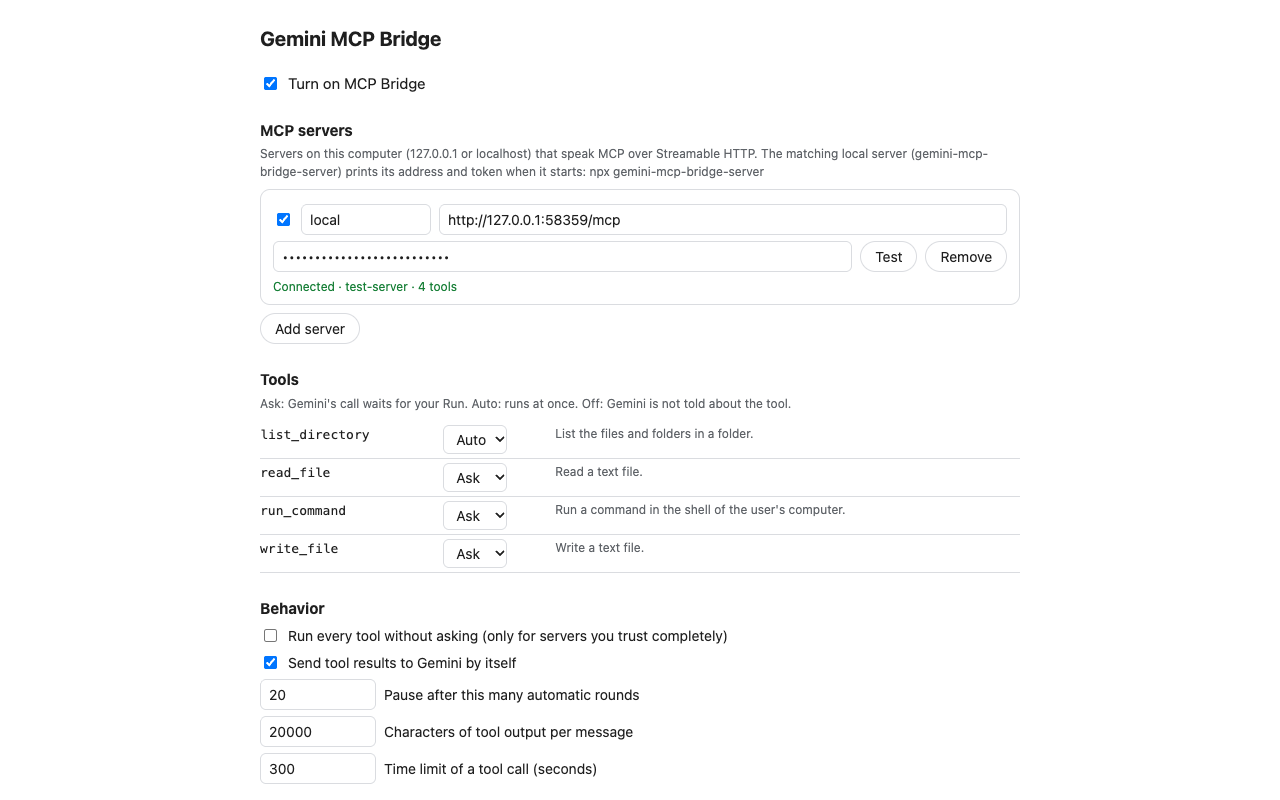
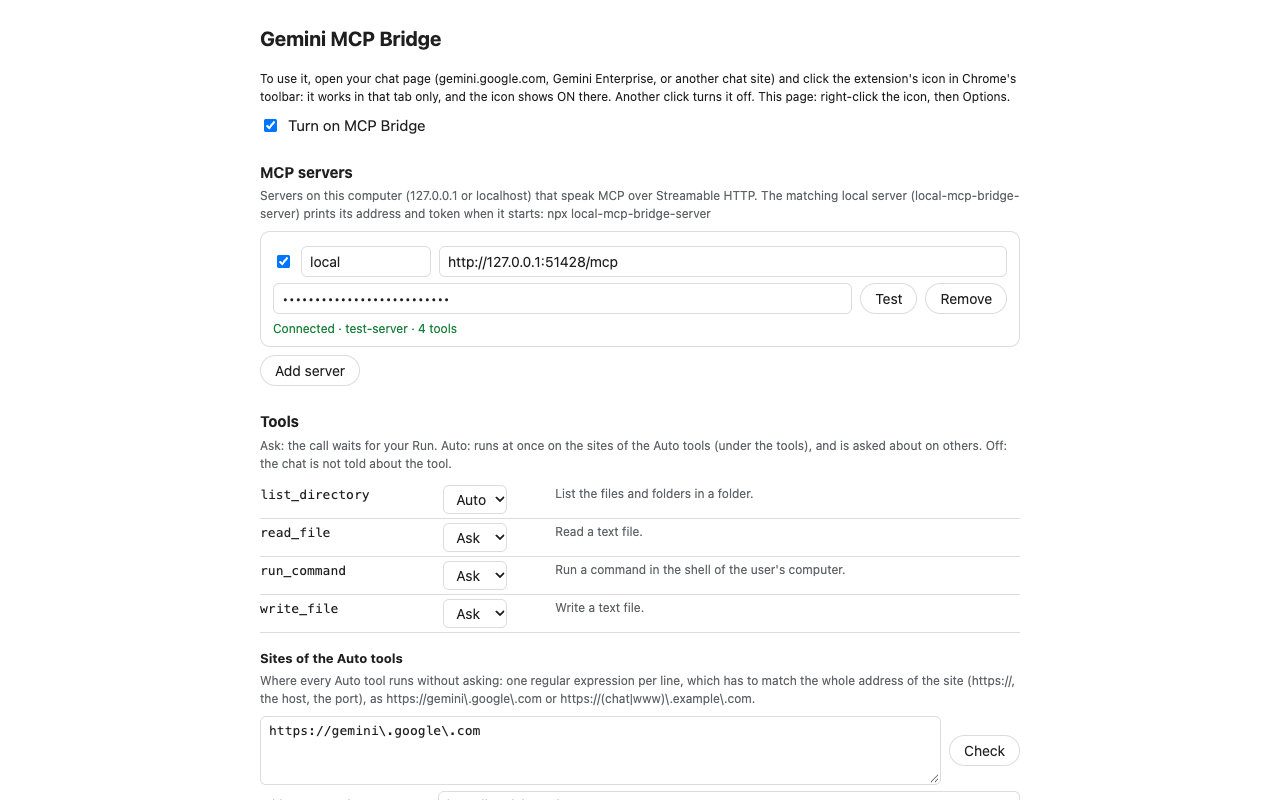
Release 0.6.2: the matching server is local-mcp-bridge-server; the performance log goes to it by either name
The options, the messages, the README, the privacy policy and the store listing give the server's new name and
command (until its 0.6.0 it was gemini-mcp-bridge-server). The performance log goes to a server of either name.
The options picture of the store shows the page as it is now.

Claude-Session: https://claude.ai/code/session_01Ff84hSXfNqtFTkKkuxbYLY

Changed region(s): [[0.1875, 0.0938, 0.7812, 0.9688], [0.75, 0.9062, 0.7812, 0.9688]]

diff --git a/src/shared/i18n.ts b/src/shared/i18n.ts
@@ -10,7 +10,7 @@ const en = {
   useInChat: "Use tools in this chat",
   refresh: "Refresh",
   settings: "Settings",
-  noServer: "No MCP server is connected. Start the local server with: npx gemini-mcp-bridge-server",
+  noServer: "No MCP server is connected. Start the local server with: npx local-mcp-bridge-server",
   resultsWaiting: "Tool results are ready. Your draft stays in the input box.",
   sendResults: "Send results",
   resultsInBox: "Tool results are in the input box: press send.",
@@ -143,7 +143,7 @@ const en = {
   optEnabled: "Turn on MCP Bridge",
   optServers: "MCP servers",
   optServersHelp:
-    "Servers on this computer (127.0.0.1 or localhost) that speak MCP over Streamable HTTP. The matching local server (gemini-mcp-bridge-server) prints its address and token when it starts: npx gemini-mcp-bridge-server",
+    "Servers on this computer (127.0.0.1 or localhost) that speak MCP over Streamable HTTP. The matching local server (local-mcp-bridge-server) prints its address and token when it starts: npx local-mcp-bridge-server",
   optName: "Name",
   optUrl: "URL",
   optToken: "Token",
@@ -195,10 +195,10 @@ const en = {
   optPerfClear: "Clear",
   optPerfEmpty: "Nothing written yet: use a tab where the extension is on.",
   optPerfKept: "The last lines stay here until the browser closes.",
-  optPerfFile: "gemini-mcp-bridge-server writes them to {file} too.",
-  optPerfOld: "gemini-mcp-bridge-server does not take them: update it (npx gemini-mcp-bridge-server@latest). They are kept here only.",
-  optPerfNone: "No gemini-mcp-bridge-server is connected: the lines are kept here only.",
-  optPerfError: "gemini-mcp-bridge-server did not take them ({error}): they are kept here only.",
+  optPerfFile: "local-mcp-bridge-server writes them to {file} too.",
+  optPerfOld: "local-mcp-bridge-server does not take them: update it (npx local-mcp-bridge-server@latest). They are kept here only.",
+  optPerfNone: "No local-mcp-bridge-server is connected: the lines are kept here only.",
+  optPerfError: "local-mcp-bridge-server did not take them ({error}): they are kept here only.",
   optLearned: "Learned pages",
   optLearnedHelp:
     "Chat pages other than Gemini that were learned (Learn this page, in the panel of the status button). Delete one and the extension guesses where things are there again, till it is learned again.",
@@ -222,7 +222,7 @@ const ko: Record<Key, string> = {
   useInChat: "이 대화에서 도구 사용",
   refresh: "새로고침",
   settings: "설정",
-  noServer: "연결된 MCP 서버가 없습니다. 로컬 서버를 실행하세요: npx gemini-mcp-bridge-server",
+  noServer: "연결된 MCP 서버가 없습니다. 로컬 서버를 실행하세요: npx local-mcp-bridge-server",
   resultsWaiting: "도구 결과가 준비됐습니다. 쓰던 글은 입력창에 그대로 있습니다.",
   sendResults: "결과 보내기",
   resultsInBox: "도구 결과를 입력창에 넣었습니다. 보내기를 누르세요.",
@@ -353,7 +353,7 @@ const ko: Record<Key, string> = {
   optEnabled: "MCP Bridge 켜기",
   optServers: "MCP 서버",
   optServersHelp:
-    "이 컴퓨터(127.0.0.1 또는 localhost)에서 Streamable HTTP로 MCP를 제공하는 서버. 짝이 되는 로컬 서버(gemini-mcp-bridge-server)는 시작할 때 주소와 토큰을 보여 줍니다: npx gemini-mcp-bridge-server",
+    "이 컴퓨터(127.0.0.1 또는 localhost)에서 Streamable HTTP로 MCP를 제공하는 서버. 짝이 되는 로컬 서버(local-mcp-bridge-server)는 시작할 때 주소와 토큰을 보여 줍니다: npx local-mcp-bridge-server",
   optName: "이름",
   optUrl: "URL",
   optToken: "토큰",
@@ -404,10 +404,10 @@ const ko: Record<Key, string> = {
   optPerfClear: "지우기",
   optPerfEmpty: "아직 적힌 것이 없습니다: 확장을 켠 탭에서 페이지를 쓰세요.",
   optPerfKept: "마지막 줄들은 브라우저를 닫을 때까지 여기에 남습니다.",
-  optPerfFile: "gemini-mcp-bridge-server도 {file}에 적습니다.",
-  optPerfOld: "gemini-mcp-bridge-server가 받지 않습니다: 서버를 새 버전으로 바꾸세요 (npx gemini-mcp-bridge-server@latest). 여기에만 남습니다.",
-  optPerfNone: "연결된 gemini-mcp-bridge-server가 없습니다: 여기에만 남습니다.",
-  optPerfError: "gemini-mcp-bridge-server가 받지 못했습니다 ({error}): 여기에만 남습니다.",
+  optPerfFile: "local-mcp-bridge-server도 {file}에 적습니다.",
+  optPerfOld: "local-mcp-bridge-server가 받지 않습니다: 서버를 새 버전으로 바꾸세요 (npx local-mcp-bridge-server@latest). 여기에만 남습니다.",
+  optPerfNone: "연결된 local-mcp-bridge-server가 없습니다: 여기에만 남습니다.",
+  optPerfError: "local-mcp-bridge-server가 받지 못했습니다 ({error}): 여기에만 남습니다.",
   optLearned: "학습한 페이지",
   optLearnedHelp: "학습한 채팅 페이지 (Gemini 밖, 상태 버튼 패널의 「학습 시작」). 지우면 그 페이지에서는 다시 학습할 때까지 확장이 추측으로 동작합니다.",
   optNoLearned: "학습한 페이지가 없습니다.",

diff --git a/e2e/perf.test.ts b/e2e/perf.test.ts
@@ -1,6 +1,7 @@
 // The performance log (an option): a slow click and a long frame are written down with the extension's share,
-// with a summary of the extension's time; the lines show on the options page, go to gemini-mcp-bridge-server and to
-// no other server, carry no text of the page, and nothing is measured or kept while the option is off.
+// with a summary of the extension's time; the lines show on the options page, go to local-mcp-bridge-server (by
+// either of its names) and to no other server, carry no text of the page, and nothing is measured or kept while
+// the option is off.
 
 import assert from "node:assert/strict";
 import { after, describe, it } from "node:test";
@@ -51,7 +52,7 @@ async function waitLine(h: Harness, re: RegExp, timeout = 15_000): Promise<strin
 
 describe("performance log", () => {
   it("writes down a slow click, a long frame and the extension's time; shows them; the server gets them", async () => {
-    const { h, page } = await setUp("gemini-mcp-bridge-server");
+    const { h, page } = await setUp("local-mcp-bridge-server");
     await page.click("#b");
     const click = await waitLine(h, /slow click/);
     assert.match(click, /^\d\d:\d\d:\d\d slow click (\d+) ms \(wait \d+, handlers (\d+), paint \d+\) on button\.slow · extension \d+ ms/);
@@ -68,7 +69,7 @@ describe("performance log", () => {
     await options.goto(new URL("options.html", h.worker.url()).href);
     const box = options.locator("textarea.perf");
     await options.waitForFunction(() => document.querySelector<HTMLTextAreaElement>("textarea.perf")?.value.includes("slow click"));
-    await options.getByText("gemini-mcp-bridge-server writes them to /home/test/.config/gemini-mcp-bridge-server/perf.log too.").waitFor();
+    await options.getByText("local-mcp-bridge-server writes them to /home/test/.config/local-mcp-bridge-server/perf.log too.").waitFor();
     await options.getByRole("button", { name: "Clear" }).click();
     await options.waitForFunction(() => document.querySelector<HTMLTextAreaElement>("textarea.perf")?.value === "");
     assert.equal(await box.inputValue(), "");
@@ -85,7 +86,19 @@ describe("performance log", () => {
     await page.close();
   });
 
-  it("keeps the lines in the browser only when the server is not gemini-mcp-bridge-server", async () => {
+  it("sends them to the server of the former name too, gemini-mcp-bridge-server (until its 0.6.0)", async () => {
+    const { h, page } = await setUp("gemini-mcp-bridge-server");
+    await page.click("#b");
+    await waitLine(h, /slow click/);
+    const until = Date.now() + 15_000;
+    while (!h.perf.some((l) => l.includes("slow click"))) {
+      if (Date.now() > until) throw new Error(`the server got no slow click: ${h.perf.join("\n")}`);
+      await new Promise((r) => setTimeout(r, 200));
+    }
+    await page.close();
+  });
+
+  it("keeps the lines in the browser only when the server is another one", async () => {
     const { h, page } = await setUp();
     await page.click("#b");
     await waitLine(h, /slow click/);

diff --git a/e2e/test-server.ts b/e2e/test-server.ts
@@ -1,4 +1,4 @@
-// An MCP server for the tests, built with the official SDK: the four tools of gemini-mcp-bridge-server, in
+// An MCP server for the tests, built with the official SDK: the four tools of local-mcp-bridge-server, in
 // simple form, over Streamable HTTP. Stateless with JSON answers, or with sessions and SSE answers.
 
 import { execFile } from "node:child_process";
@@ -72,7 +72,7 @@ export interface TestServer {
   calls: string[];
   /** JSON-RPC methods received (requests and notifications), and "DELETE" for a session ended. */
   methods: string[];
-  /** Lines of the performance log posted to /perf (answered as gemini-mcp-bridge-server does). */
+  /** Lines of the performance log posted to /perf (answered as local-mcp-bridge-server does). */
   perf: string[];
   http: HttpServer;
   /** Forgets all sessions, as a restarted server would (sessions mode only). */
@@ -81,7 +81,7 @@ export interface TestServer {
 }
 
 /** `name`: the server's name in its answer to initialize (the extension sends the performance log only to
- * gemini-mcp-bridge-server). */
+ * local-mcp-bridge-server, by either of its names). */
 export async function startTestServer(opts: { token?: string; sessions?: boolean; name?: string } = {}): Promise<TestServer> {
   const sessions = new Map<string, StreamableHTTPServerTransport>();
   const calls: string[] = [];
@@ -95,7 +95,7 @@ export async function startTestServer(opts: { token?: string; sessions?: boolean
       for await (const c of req) chunks.push(c as Buffer);
       if (req.url === "/perf") {
         perf.push(...Buffer.concat(chunks).toString("utf8").split("\n").filter(Boolean));
-        return void res.writeHead(200).end("/home/test/.config/gemini-mcp-bridge-server/perf.log");
+        return void res.writeHead(200).end("/home/test/.config/local-mcp-bridge-server/perf.log");
       }
       const body: unknown = chunks.length ? JSON.parse(Buffer.concat(chunks).toString("utf8")) : undefined;
       if (req.method === "DELETE") methods.push("DELETE");

diff --git a/src/background/index.ts b/src/background/index.ts
@@ -167,9 +167,10 @@ async function callTool(name: string, args: Record<string, unknown>, approved: b
 
 // ---------------------------------------------------------------------------------------------------------
 // The performance log (content/perf.ts): its last lines stay in chrome.storage.session for the options page, and
-// gemini-mcp-bridge-server gets them for its perf.log. Other MCP servers get nothing of it.
+// local-mcp-bridge-server gets them for its perf.log. Other MCP servers get nothing of it.
 
-const BRIDGE_SERVER = "gemini-mcp-bridge-server";
+/** The matching server, by the name it gives (until its 0.6.0: gemini-mcp-bridge-server). */
+const BRIDGE_SERVERS = new Set(["local-mcp-bridge-server", "gemini-mcp-bridge-server"]);
 const PERF_MAX_CHARS = 100_000;
 const PERF_MAX_LINES = 50;
 const PERF_MAX_LINE = 2000;
@@ -239,7 +240,7 @@ async function sendPerf(settings: Settings, lines: string[]): Promise<PerfServer
   if (!conns.size) await sync(settings, false);
   let status: PerfServer = { ok: false, why: "none" };
   for (const c of live()) {
-    if (c.client.info?.serverInfo?.name !== BRIDGE_SERVER) continue;
+    if (!BRIDGE_SERVERS.has(c.client.info?.serverInfo?.name ?? "")) continue;
     const got = await postPerf(c, lines);
     if (!status.ok) status = got;
   }

diff --git a/src/content/perf.ts b/src/content/perf.ts
@@ -5,7 +5,7 @@
 //    was the extension's own work.
 // Lines of names and numbers, the site without its path, the tag and classes of the element clicked, the hosts
 // and file names of the page's slow scripts: no text of the page. The service worker keeps the last lines for the options page and passes them to
-// gemini-mcp-bridge-server, which appends them to its perf.log.
+// local-mcp-bridge-server, which appends them to its perf.log.
 //
 // Off, it costs nothing but a check of one variable per measured function.
 

diff --git a/README.md b/README.md
@@ -6,7 +6,7 @@ It works only in the tabs where you turn it on: click its icon in Chrome's toolb
 
 This is the Chrome extension. It works with a local MCP server, because an extension cannot touch your computer by itself:
 
-- **[gemini-mcp-bridge-server](https://github.com/somebodil/gemini-mcp-bridge-server)**, the matching server: shell and file tools, plus any MCP servers you list. Start it with `npx gemini-mcp-bridge-server`.
+- **[local-mcp-bridge-server](https://github.com/somebodil/local-mcp-bridge-server)**, the matching server: shell and file tools, plus any MCP servers you list. Start it with `npx local-mcp-bridge-server`. Until its 0.6.0 it was called gemini-mcp-bridge-server: [moving over](https://github.com/somebodil/local-mcp-bridge-server#from-gemini-mcp-bridge-server) keeps its token.
 - **Any other MCP server** on `127.0.0.1` or `localhost` that speaks Streamable HTTP.
 
 ## How it works
@@ -45,16 +45,16 @@ No `node`, or a version under 20: install the LTS version from [nodejs.org](http
 Then start the server:
 
 ```bash
-npx gemini-mcp-bridge-server
+npx local-mcp-bridge-server
 ```
 
 The first start makes a config file with a random token and prints what the extension needs:
 
 ```
-gemini-mcp-bridge-server 0.6.0
+local-mcp-bridge-server 0.7.0
   URL:    http://127.0.0.1:7341/mcp
   Token:  3q2-...
-  Config: /home/you/.config/gemini-mcp-bridge-server/config.json (new)
+  Config: /home/you/.config/local-mcp-bridge-server/config.json (new)
   Tools:  run_command, read_file, list_directory
 ```
 
@@ -63,11 +63,11 @@ Leave this window open while you use Gemini: the server runs as long as the wind
 To have the server start by itself whenever you log in, install it once and register it (macOS, Linux and Windows, no administrator rights):
 
 ```bash
-npm install -g gemini-mcp-bridge-server
-gemini-mcp-bridge-server install-service
+npm install -g local-mcp-bridge-server
+local-mcp-bridge-server install-service
 ```
 
-More about the server: [gemini-mcp-bridge-server](https://github.com/somebodil/gemini-mcp-bridge-server#readme).
+More about the server: [local-mcp-bridge-server](https://github.com/somebodil/local-mcp-bridge-server#readme).
 
 ### 2. Add the extension to Chrome
 
@@ -84,8 +84,8 @@ More about the server: [gemini-mcp-bridge-server](https://github.com/somebodil/g
 On the options page (later: right-click the extension's icon, then **Options**; or **Settings** in the corner button):
 
 1. Leave the URL as it is (`http://127.0.0.1:7341/mcp`), unless you started the server with another port.
-2. Paste the token the server printed. Lost it? Run `gemini-mcp-bridge-server token` (or `npx gemini-mcp-bridge-server token`).
-3. Press **Test**. It should say *Connected · gemini-mcp-bridge-server · 4 tools*, and list the tools below.
+2. Paste the token the server printed. Lost it? Run `local-mcp-bridge-server token` (or `npx local-mcp-bridge-server token`).
+3. Press **Test**. It should say *Connected · local-mcp-bridge-server · 3 tools* (4 on Windows), and list the tools below.
 
 ![The options page, connected](store/images/screenshot-3-options.png)
 
@@ -137,14 +137,14 @@ Your settings stay. The server updates the same way it was installed: `npx` take
 ## Uninstall
 
 - The extension: **Remove** on its card in `chrome://extensions`, then delete its folder.
-- The server: `gemini-mcp-bridge-server uninstall-service` if you registered it, `npm uninstall -g gemini-mcp-bridge-server` if you installed it, and delete its config file (the path is in its first lines of output) to forget the token.
+- The server: `local-mcp-bridge-server uninstall-service` if you registered it, `npm uninstall -g local-mcp-bridge-server` if you installed it, and delete its config file (the path is in its first lines of output) to forget the token.
 
 ## Troubleshooting
 
 | What you see | What to do |
 |---|---|
 | *Cannot reach http://127.0.0.1:7341/mcp ... Is the local server running?* | Start the server (step 1), then press **Test** or **Refresh**. |
-| *HTTP 401 ... Check the token* | The token in the options does not match the server's: paste it again (`gemini-mcp-bridge-server token`). |
+| *HTTP 401 ... Check the token* | The token in the options does not match the server's: paste it again (`local-mcp-bridge-server token`). |
 | *Only 127.0.0.1 and localhost addresses can be reached* | The extension talks only to servers on your own computer. |
 | No corner button on the page | The extension is off in this tab: click its icon (it shows **ON** when on). After an update of the extension, every tab starts off. |
 | The icon does nothing on a page | Chrome does not let extensions into some pages (`chrome://` pages, the Chrome Web Store). |
@@ -152,7 +152,7 @@ Your settings stay. The server updates the same way it was installed: `npx` take
 | *No reply found yet* on a learned page | The page changed since it was learned: press **Learn again** on that line. |
 | Gemini says it cannot access your computer | Start a new chat: the instructions go with the first message of a chat. Check that the corner button is there and shows tools, and not *Off*. |
 | Gemini writes a call, but nothing happens | Look at the card under it: it may be waiting for **Run**. A call in a chat opened from the history never runs: only replies written while the page is open do. |
-| A call ends in an error, a reply waits forever, or a command does something other than in your terminal | Open DevTools (F12) on the chat page: every problem the extension runs into is an error in the console that starts with `[MCP Bridge]`. A failed call comes with the error and the arguments sent, a call it could not read with what Gemini wrote; a reply it stopped waiting for, text or results the page did not take, and a server it cannot reach are there too. The service worker's console (`chrome://extensions`, MCP Bridge, *service worker*) shows the problems with the servers, and gemini-mcp-bridge-server prints each request and its reply. The card shows the arguments as the tool gets them: a command copied from it runs the same in a terminal. |
+| A call ends in an error, a reply waits forever, or a command does something other than in your terminal | Open DevTools (F12) on the chat page: every problem the extension runs into is an error in the console that starts with `[MCP Bridge]`. A failed call comes with the error and the arguments sent, a call it could not read with what Gemini wrote; a reply it stopped waiting for, text or results the page did not take, and a server it cannot reach are there too. The service worker's console (`chrome://extensions`, MCP Bridge, *service worker*) shows the problems with the servers, and local-mcp-bridge-server prints each request and its reply. The card shows the arguments as the tool gets them: a command copied from it runs the same in a terminal. |
 | The extension disappeared after Chrome restarted | Its folder was moved or deleted: unzip it again and **Load unpacked** again. |
 | The page is slow with the extension on | Turn on the **Performance log** in the options, use the page as usual for a few minutes, and copy the lines into an issue. They say how long the slow clicks, keys and frames took and how much of each was the extension's own work. |
 
@@ -182,7 +182,7 @@ Read this before you allow a tool to run by itself.
     - each click or key that took 100 ms or more to show its effect (what Chrome's *Interaction to Next Paint* measures), each frame of 150 ms or more, and how much of that time was the extension's own work;
     - every minute, how much time the extension took and in which of its functions.
 
-  The lines carry names and numbers only (the site without its path, the tag and classes of the element clicked, the hosts and file names of the page's slow scripts), no text of the page. The last ones stay on the options page, with **Copy** and **Clear**, until the browser closes. When gemini-mcp-bridge-server is connected, it appends them to its `perf.log` too (`gemini-mcp-bridge-server perf-log` shows them).
+  The lines carry names and numbers only (the site without its path, the tag and classes of the element clicked, the hosts and file names of the page's slow scripts), no text of the page. The last ones stay on the options page, with **Copy** and **Clear**, until the browser closes. When local-mcp-bridge-server is connected, it appends them to its `perf.log` too (`local-mcp-bridge-server perf-log` shows them).
 
 ## Limits
 

diff --git a/store/listing.md b/store/listing.md
@@ -36,7 +36,7 @@ YOU STAY IN CONTROL
 • The extension reaches only 127.0.0.1 and localhost.
 
 WHAT YOU NEED
-The matching local server, gemini-mcp-bridge-server (free, open source, Node.js): run "npx gemini-mcp-bridge-server" and enter the address and token it prints in the extension's options. It offers shell and file tools and passes through any MCP servers you list (Playwright, databases, and more). Any other MCP server that speaks Streamable HTTP on localhost works too.
+The matching local server, local-mcp-bridge-server (free, open source, Node.js): run "npx local-mcp-bridge-server" and enter the address and token it prints in the extension's options. It offers shell and file tools and passes through any MCP servers you list (Playwright, databases, and more). Any other MCP server that speaks Streamable HTTP on localhost works too.
 
 PRIVACY
 The extension sends nothing to its developer or anyone else. Tool results become part of your Gemini conversation, which Google handles under its own terms.
@@ -67,7 +67,7 @@ Gemini MCP Bridge는 웹의 Gemini(gemini.google.com, Gemini Enterprise, 다른 
 • 확장은 127.0.0.1과 localhost에만 연결합니다.
 
 필요한 것
-짝이 되는 로컬 서버 gemini-mcp-bridge-server (무료, 오픈 소스, Node.js): "npx gemini-mcp-bridge-server"를 실행하고, 보여 주는 주소와 토큰을 확장 설정에 넣으세요. 셸과 파일 도구가 있고, 적어 둔 MCP 서버(Playwright, 데이터베이스 등)를 그대로 연결합니다. localhost에서 Streamable HTTP로 도는 다른 MCP 서버도 됩니다.
+짝이 되는 로컬 서버 local-mcp-bridge-server (무료, 오픈 소스, Node.js): "npx local-mcp-bridge-server"를 실행하고, 보여 주는 주소와 토큰을 확장 설정에 넣으세요. 셸과 파일 도구가 있고, 적어 둔 MCP 서버(Playwright, 데이터베이스 등)를 그대로 연결합니다. localhost에서 Streamable HTTP로 도는 다른 MCP 서버도 됩니다.
 
 개인정보
 확장은 개발자나 다른 누구에게도 아무것도 보내지 않습니다. 도구 결과는 Gemini 대화의 일부가 되고, Google이 자기 약관에 따라 다룹니다.

diff --git a/PRIVACY.md b/PRIVACY.md
@@ -12,14 +12,14 @@ Gemini MCP Bridge is a Chrome extension. It collects no data for its developer a
 
 ## Where data goes
 
-- **To MCP servers on your own computer.** The extension sends the tool calls Gemini writes to the MCP servers you entered in the options. It can reach only `127.0.0.1` and `localhost`. While the performance log is on, its lines go to gemini-mcp-bridge-server among them (no other server), which writes them into a file on that computer.
+- **To MCP servers on your own computer.** The extension sends the tool calls Gemini writes to the MCP servers you entered in the options. It can reach only `127.0.0.1` and `localhost`. While the performance log is on, its lines go to local-mcp-bridge-server among them (or gemini-mcp-bridge-server, its name until 0.6.0; no other server), which writes them into a file on that computer.
 - **To Gemini.** The extension types the instructions, your tool list and the results of the tool calls into your Gemini conversation. They then are messages of that conversation, which Google handles under its own terms and privacy policy, like everything else you type into Gemini.
 
 Nothing else leaves your browser. The extension has no analytics and no remote code, and it makes no requests to other servers.
 
 ## The local server
 
-The matching local server ([gemini-mcp-bridge-server](https://github.com/somebodil/gemini-mcp-bridge-server)) is a separate program. It runs on your computer, takes only requests that carry its token, and keeps its settings (and the performance log, when the extension sends one) in files on your computer. It sends nothing anywhere, except what the MCP servers you configure do on their own.
+The matching local server ([local-mcp-bridge-server](https://github.com/somebodil/local-mcp-bridge-server)) is a separate program. It runs on your computer, takes only requests that carry its token, and keeps its settings (and the performance log, when the extension sends one) in files on your computer. It sends nothing anywhere, except what the MCP servers you configure do on their own.
 
 ## Contact
 
